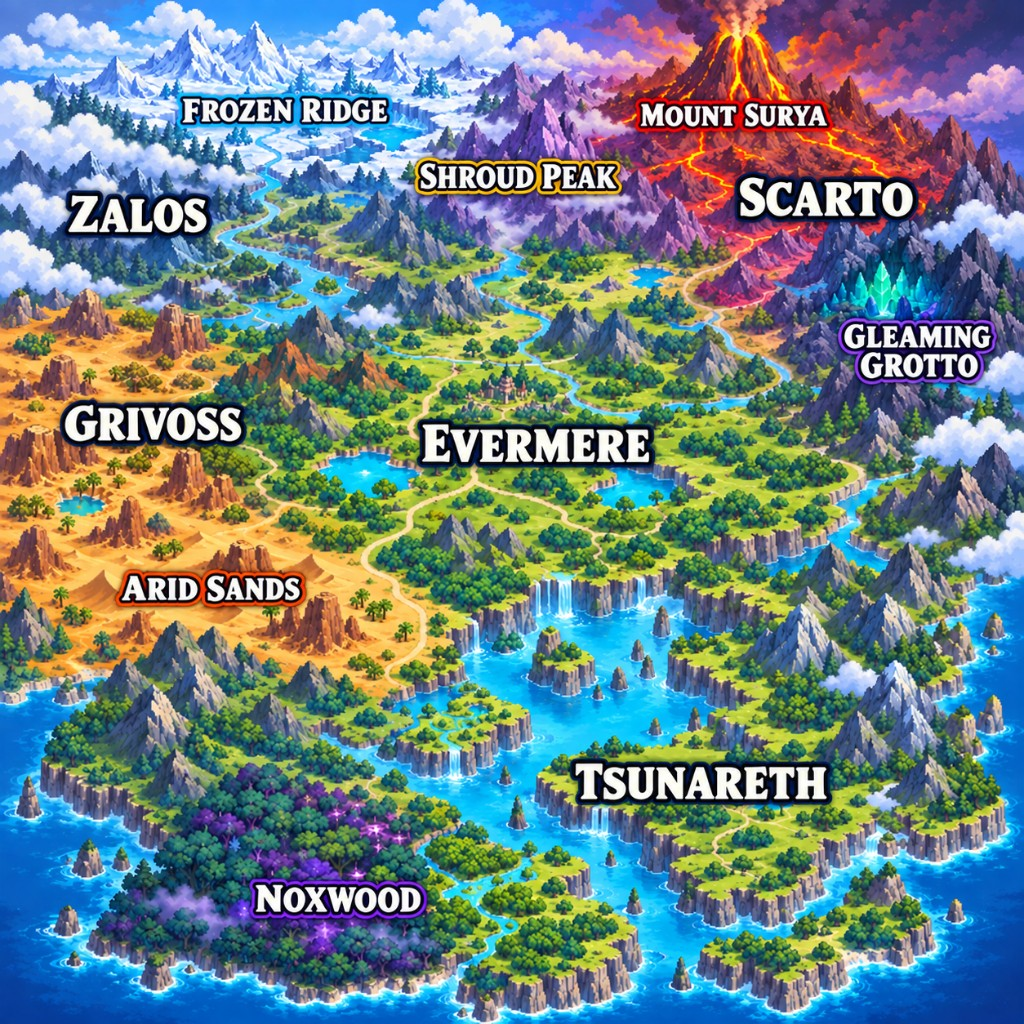
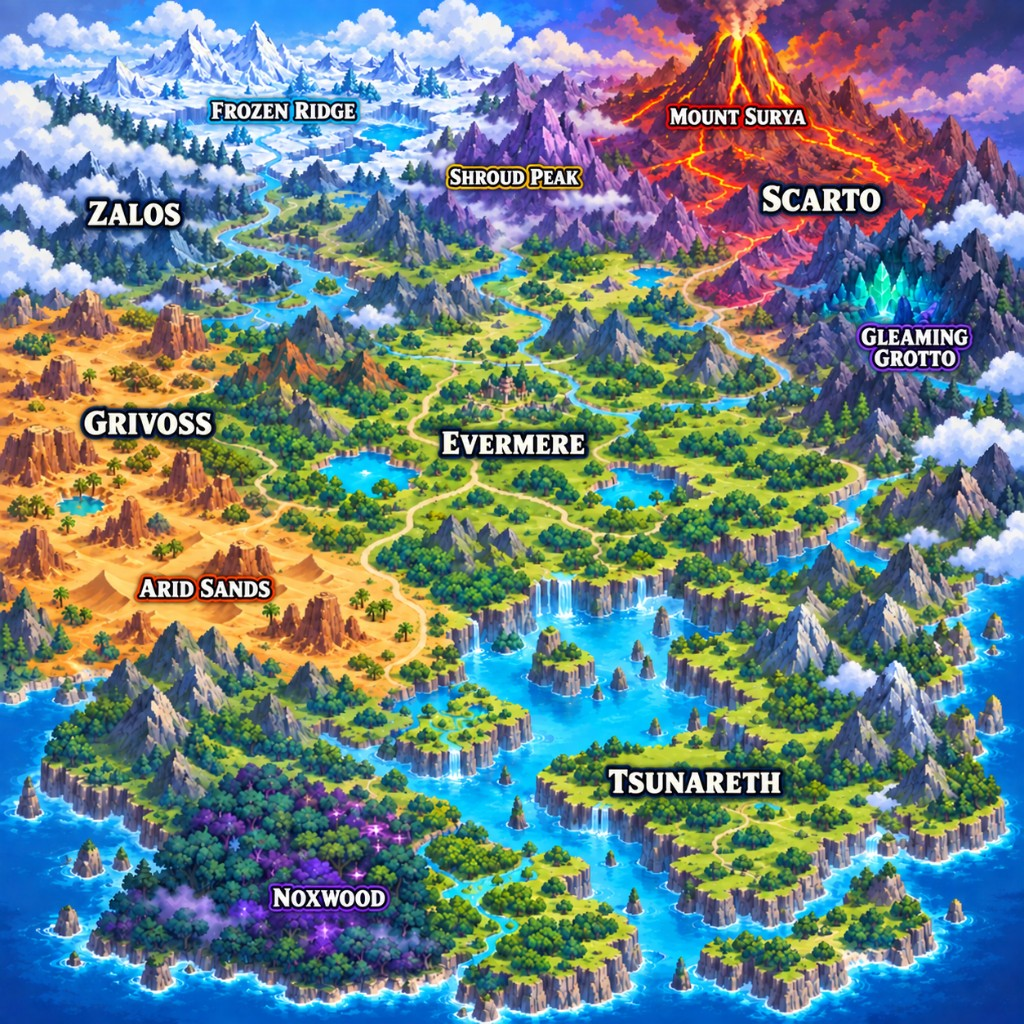
Refine homepage Lore and Creator sections; update Kinbrold map assets.
Dedicated Creator Program block, Lore CTA with unlabeled map, remove footer alpha duplicate, relabeled map art, and rename header link to TCG Beta.

diff --git a/src/pages/LandingPage.jsx b/src/pages/LandingPage.jsx
@@ -3,12 +3,8 @@ import { Link } from 'react-router-dom';
 import { Helmet } from 'react-helmet-async';
 import { motion } from 'framer-motion';
 import { ArrowRight, Map, Swords, Gem, Hammer, Layers, Trophy, Sparkles } from 'lucide-react';
-import {
-  trackAlphaCtaClick,
-  trackCreatorCtaClick,
-  trackDiscordClick,
-} from '@/utils/analytics';
-import { SITE, MMO_IMAGES, hasDiscordInvite, isPhysicalShopPaused } from '@/config/site';
+import { trackAlphaCtaClick, trackCreatorCtaClick } from '@/utils/analytics';
+import { SITE, MMO_IMAGES } from '@/config/site';
 import AlphaWaitlistCapture from '@/components/alpha/AlphaWaitlistCapture';
 import AlphaSignupModal from '@/components/alpha/AlphaSignupModal';
 import CreatorInterestCapture from '@/components/creators/CreatorInterestCapture';
@@ -382,94 +378,70 @@ const LandingPage = () => {
         </div>
       </section>
 
-      {/* TCG + CREATORS + COMMUNITY */}
-      <section className="py-14 bg-[#140d32] border-y border-yellow-400/20">
-        <div className="container mx-auto px-4 grid md:grid-cols-3 gap-6">
-          <div className="rounded-2xl border border-yellow-400/25 p-6 bg-yellow-400/5 hover:border-yellow-400/50 transition-colors">
-            <h3 className="text-xl md:text-2xl font-bold mb-2 text-yellow-400">Elekin TCG</h3>
-            <p className="text-base md:text-lg text-purple-200/70 mb-4">
-              The card game connected to Kinbrold — gallery, how to play, and browser Quickplay.
-            </p>
-            <div className="flex flex-wrap gap-3 text-base font-semibold">
-              <Link to="/cards" className="text-yellow-400 hover:text-yellow-300">
-                Card Gallery
-              </Link>
-              <Link to="/tcg" className="text-yellow-400 hover:text-yellow-300">
-                Play Quickplay
-              </Link>
-              <Link to="/shop" className="text-yellow-400 hover:text-yellow-300">
-                {isPhysicalShopPaused() ? 'Physical TCG (paused)' : 'Shop'}
-              </Link>
-            </div>
-          </div>
-
-          <div
-            className="rounded-2xl border-2 border-yellow-400/50 p-6 bg-gradient-to-br from-yellow-400/20 via-yellow-500/10 to-transparent shadow-[0_0_30px_rgba(234,179,8,0.15)]"
-          >
-            <div className="flex items-center gap-2 mb-2">
+      {/* CREATOR PROGRAM */}
+      <section className="py-16 md:py-20 bg-[#140d32] border-y border-yellow-400/20">
+        <div className="container mx-auto px-4 max-w-3xl">
+          <div className="rounded-2xl border-2 border-yellow-400/50 p-8 md:p-10 bg-gradient-to-br from-yellow-400/20 via-yellow-500/10 to-transparent shadow-[0_0_40px_rgba(234,179,8,0.12)]">
+            <div className="flex items-center justify-center gap-2 mb-3">
               <Sparkles className="w-5 h-5 text-yellow-400" />
-              <span className="text-xs md:text-sm font-bold uppercase tracking-wider text-yellow-400">Now recruiting</span>
+              <span className="text-xs md:text-sm font-bold uppercase tracking-wider text-yellow-400">
+                Now recruiting
+              </span>
             </div>
-            <h3 className="text-xl md:text-2xl font-bold mb-2 text-white">Creator Program</h3>
-            <p className="text-base md:text-lg text-purple-100/80 mb-4">
-              Early Kinbrold looks, creator testing, and limited slots before Elekin goes wide.
+            <h2 className="text-3xl md:text-4xl font-black text-center mb-3 text-white">Creator Program</h2>
+            <p className="text-base md:text-lg text-purple-100/85 text-center mb-8 max-w-xl mx-auto leading-relaxed">
+              Be among the first creators to enter {SITE.worldName} — early looks, exclusive reveals, creator testing,
+              and consideration for Alpha access before Closed Alpha opens October 1.
             </p>
-            <CreatorInterestCapture placement="homepage_grid" />
-            <Link
-              to="/creators"
-              onClick={() => trackCreatorCtaClick('homepage')}
-              className="inline-flex items-center gap-2 mt-4 text-sm font-bold text-yellow-400 hover:text-yellow-300"
-            >
-              Full application <ArrowRight className="w-4 h-4" />
-            </Link>
-          </div>
-
-          <div className="rounded-2xl border border-yellow-400/25 p-6 bg-yellow-400/5 hover:border-yellow-400/50 transition-colors">
-            <h3 className="text-xl md:text-2xl font-bold mb-2 text-yellow-400">Community</h3>
-            <p className="text-base md:text-lg text-purple-200/70 mb-4">
-              The official Elekin Discord is being prepared for the MMOTCG phase.
-            </p>
-            {hasDiscordInvite() ? (
-              <a
-                href={SITE.discordInviteUrl}
-                target="_blank"
-                rel="noopener noreferrer"
-                onClick={() => trackDiscordClick('homepage')}
-                className="text-base font-bold text-yellow-400 hover:text-yellow-300"
+            <CreatorInterestCapture placement="homepage_creator" className="max-w-lg mx-auto" />
+            <div className="mt-6 flex flex-col sm:flex-row items-center justify-center gap-4">
+              <Link
+                to="/creators"
+                onClick={() => trackCreatorCtaClick('homepage')}
+                className="inline-flex items-center gap-2 bg-yellow-400 hover:bg-yellow-300 text-[#1A103C] font-bold px-6 py-3 rounded-xl transition-colors"
               >
-                Join the Elekin Community →
-              </a>
-            ) : (
-              <Link to="/community" className="text-base font-bold text-yellow-400/70 hover:text-yellow-400">
-                Discord — Coming Soon →
+                Apply to the Creator Program
+                <ArrowRight className="w-5 h-5" />
               </Link>
-            )}
+              <Link
+                to="/creators"
+                onClick={() => trackCreatorCtaClick('homepage_creator_learn')}
+                className="text-sm font-semibold text-yellow-400/90 hover:text-yellow-300"
+              >
+                See benefits & requirements
+              </Link>
+            </div>
           </div>
         </div>
       </section>
 
-      {/* FINAL CTA */}
-      <section className="py-20 md:py-28 relative">
-        <div className="absolute inset-x-0 top-0 h-px bg-gradient-to-r from-transparent via-yellow-400/40 to-transparent" />
-        <div className="container mx-auto px-4 text-center max-w-2xl">
-          <p className="text-yellow-400 text-sm md:text-base font-semibold tracking-[0.2em] uppercase mb-4">
-            Opens October 1
-          </p>
-          <h2 className="text-4xl md:text-5xl lg:text-6xl font-bold mb-4 leading-tight">
-            Be among the first to enter <span className="text-yellow-400">Kinbrold</span>
+      {/* LORE */}
+      <section className="relative py-16 md:py-24 overflow-hidden border-b border-yellow-400/20">
+        <div
+          className="absolute inset-0 bg-cover bg-center opacity-45"
+          style={{ backgroundImage: `url('${MMO_IMAGES.kinbroldMapNoNames}')` }}
+        />
+        <div className="absolute inset-0 bg-gradient-to-r from-[#1A103C]/88 via-[#1A103C]/72 to-[#1A103C]/88" />
+        <div className="relative container mx-auto px-4 max-w-4xl text-center">
+          <p className="text-yellow-400 text-sm font-semibold tracking-[0.2em] uppercase mb-3">Lore</p>
+          <h2 className="text-3xl md:text-5xl font-black mb-4">
+            Explore the world of <span className="text-yellow-400">{SITE.worldName}</span>
           </h2>
-          <p className="text-purple-200/75 mb-8 text-lg md:text-xl">
-            Closed Alpha opens October 1. We&apos;re testing internally right now — join the tester list to be considered for early access.
+          <p className="text-lg md:text-xl text-purple-100/85 mb-8 max-w-2xl mx-auto leading-relaxed">
+            Kingdoms, history, and the places you&apos;ll adventure through in the MMOTCG — from Evermere to the edges of
+            the map. Dive in before you step into Closed Alpha.
           </p>
-          <div className="max-w-md mx-auto text-left">
-            <AlphaWaitlistCapture
-              placement="homepage_footer"
-              layout="stacked"
-              buttonLabel="Become an Alpha Tester"
-            />
-          </div>
+          <Link
+            to="/kinbrold"
+            className="inline-flex items-center gap-2 border-2 border-yellow-400/60 hover:border-yellow-400 bg-yellow-400/10 hover:bg-yellow-400/20 text-yellow-300 font-bold text-lg px-8 py-4 rounded-xl transition-colors"
+          >
+            <Map className="w-5 h-5" />
+            Explore Lore
+            <ArrowRight className="w-5 h-5" />
+          </Link>
         </div>
       </section>
+
     </div>
   );
 };

diff --git a/src/config/site.js b/src/config/site.js
@@ -9,6 +9,8 @@ export const DEFAULT_DISCORD_INVITE_URL = 'https://discord.gg/JVcMMqTADB';
 export const MMO_IMAGES = {
   landingHero: '/elekin-landing-hero.jpg',
   kinbroldMap: '/images/mmo-kinbrold-map.jpg',
+  /** Labeled regions omitted — decorative backgrounds */
+  kinbroldMapNoNames: '/images/mmo-kinbrold-map-nonames.jpg',
   evermereStreet: '/images/mmo-evermere-street.jpg',
   evermereCrafting: '/images/mmo-evermere-crafting.jpg',
   scarto: '/images/mmo-scarto.jpg',

diff --git a/src/nav-items.jsx b/src/nav-items.jsx
@@ -61,7 +61,7 @@ export const navItems = [
         page: <CardGalleryPage />,
       },
       {
-        title: "Play Quickplay",
+        title: "TCG Beta",
         to: "/tcg",
         page: <TCGLanding />,
       },
